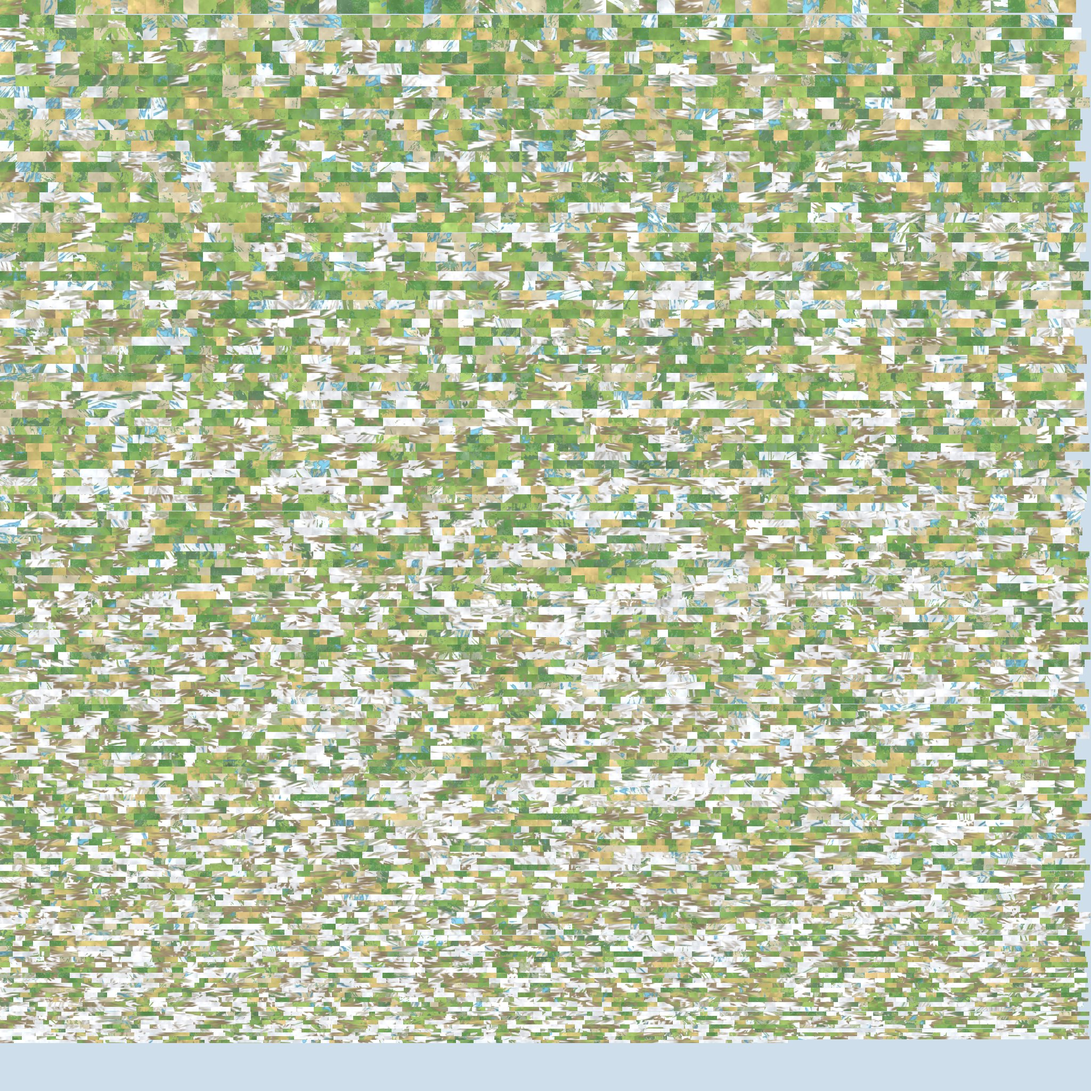
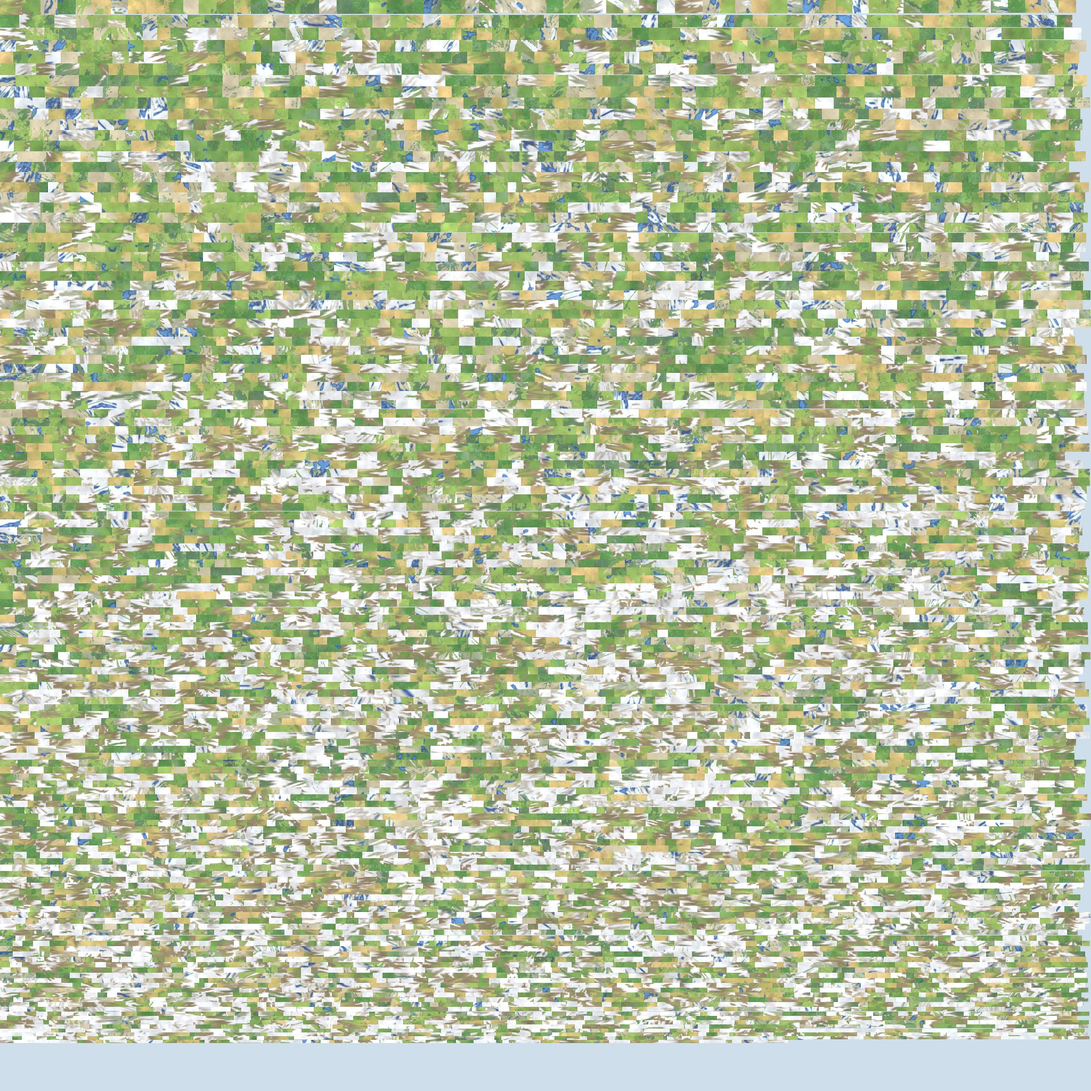
川を光る水色の芯と濃い青の縁・むらにする/湖を青寄りに
Claude-Session: https://claude.ai/code/session_01NNF75WtqSrNc5QxPaYtfZJ

diff --git a/docs/apps/fantasy-war/world3d.html b/docs/apps/fantasy-war/world3d.html
@@ -22,6 +22,14 @@ const D0=()=>(innerWidth/innerHeight<1?2600:1500); let az=0,el=0.9,dist=D0(),mes
 const VS=1.1;
 function resize(){R.setSize(innerWidth,innerHeight,false);cam.aspect=innerWidth/innerHeight;cam.updateProjectionMatrix();} addEventListener('resize',resize); resize();
 function place(){cam.position.set(Math.sin(az)*Math.cos(el)*dist,Math.sin(el)*dist,Math.cos(az)*Math.cos(el)*dist);cam.lookAt(0,0,0);}
+// 川の色: 光る水色の芯+縁と所々に濃い青を混ぜる(ユーザー指示 11-22 22:11。参考=光る川の絵)。幅方向=芯が明るく縁が濃い、長さ方向=濃淡のむら
+function rivTex(){const W=32,Hh=256,c=document.createElement('canvas'); c.width=W; c.height=Hh; const g=c.getContext('2d'),im=g.createImageData(W,Hh);
+ const ph=[0.31,0.77,1.9]; const lerp=(a,b,t)=>a+(b-a)*t;
+ for(let y=0;y<Hh;y++){const t=y/Hh*Math.PI*2; let d=0.5+0.28*Math.sin(t*2+ph[0]*6)+0.18*Math.sin(t*5+ph[1]*6)+0.1*Math.sin(t*11+ph[2]*6); d=Math.min(1,Math.max(0,d));
+  for(let x=0;x<W;x++){const e=Math.abs((x+0.5)/W-0.5)*2, w=Math.pow(e,1.3);   // 縁ほど濃い
+   const core=[lerp(150,45,d*0.9),lerp(228,95,d*0.9),lerp(255,205,d*0.8)], edge=[28,52,150];
+   const i=(y*W+x)*4; im.data[i]=lerp(core[0],edge[0],w); im.data[i+1]=lerp(core[1],edge[1],w); im.data[i+2]=lerp(core[2],edge[2],w); im.data[i+3]=255;}}
+ g.putImageData(im,0,0); const t=new THREE.CanvasTexture(c); t.wrapT=THREE.RepeatWrapping; t.wrapS=THREE.ClampToEdgeWrapping; t.colorSpace=THREE.SRGBColorSpace; return t;}
 async function load(id){
  st.textContent='読み込み中…'; const t0=performance.now();
  const d=await (await fetch(`w3d/world${id}.json`)).json();
@@ -41,8 +49,9 @@ async function load(id){
   const bin=atob(r.v), u8=new Uint8Array(bin.length); for(let i=0;i<bin.length;i++)u8[i]=bin.charCodeAt(i); const q=new Int16Array(u8.buffer), k=1/r.q;
   const rp=new Float32Array(q.length), ri=[]; for(let i=0;i<q.length;i+=3){rp[i]=q[i]*k-d.w/2; rp[i+1]=q[i+2]*k*VS; rp[i+2]=q[i+1]*k-d.h/2;}
   let o=0; for(const m of r.c){for(let j=0;j<m-1;j++){const a=o+2*j; ri.push(a,a+1,a+2, a+1,a+3,a+2);} o+=2*m;}
-  const rg=new THREE.BufferGeometry(); rg.setAttribute('position',new THREE.BufferAttribute(rp,3)); rg.setIndex(ri);
-  riv=new THREE.Mesh(rg,new THREE.MeshBasicMaterial({color:0x6ecdf5,side:THREE.DoubleSide,polygonOffset:true,polygonOffsetFactor:-2,polygonOffsetUnits:-2})); S.add(riv);}}catch(e){console.log('river',e);}
+  const ru=new Float32Array(q.length/3*2); o=0; for(const m of r.c){let acc=0; for(let j=0;j<m;j++){ if(j>0){const a=(o+2*j)*3,b=(o+2*j-2)*3; acc+=Math.hypot(rp[a]-rp[b],rp[a+1]-rp[b+1],rp[a+2]-rp[b+2]);} ru[(o+2*j)*2]=0; ru[(o+2*j+1)*2]=1; ru[(o+2*j)*2+1]=ru[(o+2*j+1)*2+1]=acc/60;} o+=2*m;}
+  const rg=new THREE.BufferGeometry(); rg.setAttribute('position',new THREE.BufferAttribute(rp,3)); rg.setAttribute('uv',new THREE.BufferAttribute(ru,2)); rg.setIndex(ri);
+  riv=new THREE.Mesh(rg,new THREE.MeshBasicMaterial({map:rivTex(),side:THREE.DoubleSide,polygonOffset:true,polygonOffsetFactor:-2,polygonOffsetUnits:-2})); S.add(riv);}}catch(e){console.log('river',e);}
  if(sea)S.remove(sea); sea=new THREE.Mesh(new THREE.PlaneGeometry(d.w*1.2,d.h*1.2),new THREE.MeshLambertMaterial({color:0xb4c4c0})); sea.rotation.x=-Math.PI/2; sea.position.y=-1; S.add(sea);
  info=`面 ${d.f.length/3} / 読み込み ${(performance.now()-t0).toFixed(0)}ms`;
  st.textContent=info+'\nドラッグで回す。';

diff --git a/docs/apps/fantasy-war/mapstyle/tools/water_layer.py b/docs/apps/fantasy-war/mapstyle/tools/water_layer.py
@@ -69,8 +69,8 @@ def make(g, lake, land0, H, out, shift, seed=1, rivers_in_texture=False, min_ord
     else: ink = fill = np.zeros((H0, W0), np.float32)      # 川は絵にせず、3Dで地形に沿う帯にする(絵だと急な面で伸びる 11-22 21:45)
     ink *= (1 - lki); fill *= (1 - lki)
     rgb = np.zeros((H0, W0, 3), np.float32); a = np.zeros((H0, W0), np.float32)
-    rgb, a = over(rgb, a, (126, 204, 238), 0.92 * lki)
-    rgb, a = over(rgb, a, (72, 128, 170), 0.6 * ring * (lkz > 0.05))
+    rgb, a = over(rgb, a, (92, 150, 214), 0.94 * lki)
+    rgb, a = over(rgb, a, (34, 58, 140), 0.7 * ring * (lkz > 0.05))
     rgb, a = over(rgb, a, (70, 130, 175), 0.5 * ink)                     # 墨色のふち
     rgb, a = over(rgb, a, (110, 205, 245), 0.97 * fill)                  # 青の川筋
     O = np.dstack([rgb[..., ::-1], a * 255]).astype(np.uint8)       # BGRA

diff --git a/docs/apps/sekai-hex/design/STATE.md b/docs/apps/sekai-hex/design/STATE.md
@@ -205,6 +205,7 @@
 - 【指示 11-22 21:50 ユーザー】『絵を貼る場合、地形の伸び率をそのままにしてUV展開してから貼らないから、うまくできないんだよ』。→ 認める(21:45の私の対策は『模様を弱める』だけで、貼り方そのものを直していなかった)。実施: 面ごとのUV展開にした(道具 mapstyle/tools/atlas_unwrap.py、lowpoly.py の FM_LP_ATLAS)。各三角形を3Dの実寸(横・縦+高さ×1.1)のまま平らに開き、1枚の絵(アトラス 2048×2048)に並べる=各面の絵の領域は3Dの面積に比例し、伸び率が1になる。絵はその展開の上で作る: 色(群系・高さ・雪・湖)は地図の位置から引き、細かい模様は3Dの位置で作る(斜面で伸びない)。ビューア(world3d.html)は面ごとのUV(tuv)を読む。実測: 球体seed31の面10,206・面の3D面積の合計約136万、アトラス密度は3D1単位あたり0.8画素(seed32は0.9)、作成4秒、絵約1.2MB・面データ約1.4MB。目視(近づいた3D・PC画面のみ): 山の斜面の縦筋が消え、絵が面に均一に貼られた。エラー無し。限界: 密度0.8は平地では旧(平面貼り1.0)よりやや粗い/面ごとの島(各三角形が別領域)なので面の境で色が少し変わる所がある(色は地図の位置から引くため連続だが、模様は面の端で別補間)/川は絵でなく帯(21:45)のまま/森は球体世界に未搭載=森を足す時は、木の置き方も展開した絵の上(3Dの寸法)で行う必要がある/PWG5の5世界は未反映(旧方式のまま)/iPhone未測定(絵2048角×2枚)。次の一手: 球体の世界に森を、展開した絵の上で足す(群系から)。
 - 【指示 11-22 21:56 ユーザー】『完全でなくてもいい。擬似で。少しくらい伸びないと作れない。それより山の伸び率が大き過ぎる。全体の大きさと山の伸び率を比率で、適当な値を計算して山を伸ばしてほしい』。→ 計算(実測): 世界は周長8192km=横1400画素で1画素=約5.85km。球体PWGの最高峰は約8.2〜8.5km(海抜上位6%の境は約2km)=実寸の縮尺だと最高峰は約1.4画素で、ほぼ平ら。以前の3D表示は、標高の上位6%を境に二段で高さを割り当てていて、実寸の縮尺比で約60〜115倍に誇張していた(最高峰は約97画素=世界幅の7%、針のような山)。実寸の傾き(地図の画素の傾き)は中央0.008・90%点0.028・99%点0.049。誇張の倍率kを変えて面の伸び率を測った: k=10→90%点1.04倍/k=20→1.15倍/k=30→1.31倍(最高峰=世界幅の3%)・99%点1.7〜1.8倍。決定: 誇張30倍(山の高さ=実標高÷5.85km×30。陸の基準の高さは海面すれすれ=海岸の崖をなくした)。『少し伸びる』は許容として、面の9割が1.4倍以内に入る値。実施(pwg_sphere_convert.py。倍率は環境変数 FM_LP_EXAG、縮尺 FM_LP_KMPX): 3D表示の高さだけ置き換え(色・面の分け方は元のまま)、川の帯とアトラスも同じ高さで作り直し。結果(実測・球体2世界の面): 伸び率 中央2.6→1.07倍・90%点6.3→1.4倍・99%点11→2.6〜2.9倍。最高点の高さは約97→約34画素(基準の高さ込みで56〜61)。目視(PC画面): 針のような山が無くなり、山脈がなだらかな起伏になった。川の帯・絵が斜面で伸びない。エラー無し。限界: 倍率30は私が測って選んだ値でユーザー指定でない(もっと高くしたければ倍率を上げる。45で90%点約1.6倍)/高さの基準を変えたため、海面すれすれの低地は平らに見える/川の帯は急な所で短く途切れる/PWG5の5世界は元の標高が無く未反映(旧の高さのまま)/iPhone未測定。次の一手: 山の高さの好みを見て、倍率を決める(上げる/このまま)。
 - 【指摘・指示 11-22 22:01 ユーザー】『自然な地図の山なんて望んでいない。多少の強調は必要。強調の基準はハブに書いたよね。ハブから外れている。また、川の数が多すぎる。川も山も特徴的なのだけを選んで強調して書くんだよ』。→ 認める(私の落ち度): 21:56の『実寸の縮尺×誇張30倍』は、ハブの確定済みの基準(カード6A『地形には特出する地形があり、絵はそれをいろいろな形で示す=デフォルメ=特徴を選んで強調』・カード6E『ゆるい3D+強調は高い山が集まる所だけ』・平均してならすのは失敗)を確かめずに、自分で自然さの基準を作ったもので、基準違反。21:56の誇張30倍は取り下げ(置き換え済み)。実施: ①山=カード6E(mapstyle40)の基準に戻した: 全体はゆるい3D(強さ0.535)・高い山が集まる所だけ強調(0.775、集まりのしきい値0.17)・低地の面は粗く山は細かく・山の縁は中間の細かさ(FM_LP_GENTLE=1 BASE=0.535 EMPH=0.775 D0=0.17 SP=1.3 RING=1)。pwg_sphere_convert.py の既定にした。②川=特徴的なものだけ選ぶ: 流域の最大の順位が6以上の大河の系統だけ、その中の順位5以上を描く(旧: 順位4以上の全部)。幅を太め(旧の1.4倍)に強調。結果(実測): 川の連なり 約1,070→124(seed31)・1,090→134(seed32)、頂点 2.0万→0.4万。山の面は12,120・10,155、面の伸び率は中央1.26〜1.30倍・90%点約3倍・99%点約5倍(強調域の山は伸びる=ユーザー『少し伸びてよい』の範囲と解釈)、最高点は約67画素(旧: 97画素の針→21:56の56画素の平坦)。目視(PC画面・全体と近づき): 山脈が強調された尖った峰として見え、低地はゆるく、川は少数の大河が山から低地・海へ流れる。限界: 川は大河中心で、小さな島(西の島)や湖の周りでは川がほぼ無い/大河の選び方(最大順位6以上・描く順位5以上)は私の初期値(RIV_BASIN・RIV_ORD で変える。順位4で約3倍に増える)/山の強調の強さはmapstyle40の値のまま(ユーザー評価済みの値)で、3D表示の高さ倍率(1.1)は未調整/PWG5の5世界は未反映/iPhone未測定。次の一手: 球体の世界に森を足す(強調して選んだ場所に)。
+- 【指示 11-22 22:11 ユーザー(参考画像: 光る川のファンタジー地図)】『水色すぎる。こんな感じで光らせても濃い色も混じるんだよ。濃い色と水色を混ぜて』。→ 実施: 川の色を『光る水色の芯+縁と所々に濃い青』にした。川の帯に絵(模様)を貼る形にし(world3d.html の rivTex)、幅方向=芯が明るい水色(150,228,255)で縁ほど濃い青(28,52,150)、長さ方向=濃淡のむら(芯が水色〜青(45,95,205)の間で変わる、周期は川の長さ約60ごと)。湖も、水色一色をやめ青寄り(92,150,214)・縁を濃い青(34,58,140)に。結果(目視・PC画面の近づいた3D): 川は明るい芯と濃い縁で光るように見え、所々青が濃くなる。限界: 色の配合・濃淡の周期は私の初期値/『光る』(ぼんやり発光・川の周りの滲み)は未実装で、色の濃淡のみ/湖は川より濃く見える/参考画像の紫の混じり・稲妻状の細い光は未対応/iPhone未測定。次の一手: 色の濃淡を見て調整点を一言、または球体の世界に森を足す。
 
 ## カード15 制作プロトコル(超基礎概念)と、このプロジェクトの作業フロー【確定(ユーザー指示 11-21)+案】
 - 適用範囲: このプロジェクト(ファンタジー世界戦争=世界ハニカム、docs/apps/fantasy-war と sekai-hex)だけ。他のアプリには適用しない。

diff --git a/docs/apps/sekai-hex/design/cards/c06g.md b/docs/apps/sekai-hex/design/cards/c06g.md
@@ -100,3 +100,4 @@
 - 【指示 11-22 21:50 ユーザー】『絵を貼る場合、地形の伸び率をそのままにしてUV展開してから貼らないから、うまくできないんだよ』。→ 認める(21:45の私の対策は『模様を弱める』だけで、貼り方そのものを直していなかった)。実施: 面ごとのUV展開にした(道具 mapstyle/tools/atlas_unwrap.py、lowpoly.py の FM_LP_ATLAS)。各三角形を3Dの実寸(横・縦+高さ×1.1)のまま平らに開き、1枚の絵(アトラス 2048×2048)に並べる=各面の絵の領域は3Dの面積に比例し、伸び率が1になる。絵はその展開の上で作る: 色(群系・高さ・雪・湖)は地図の位置から引き、細かい模様は3Dの位置で作る(斜面で伸びない)。ビューア(world3d.html)は面ごとのUV(tuv)を読む。実測: 球体seed31の面10,206・面の3D面積の合計約136万、アトラス密度は3D1単位あたり0.8画素(seed32は0.9)、作成4秒、絵約1.2MB・面データ約1.4MB。目視(近づいた3D・PC画面のみ): 山の斜面の縦筋が消え、絵が面に均一に貼られた。エラー無し。限界: 密度0.8は平地では旧(平面貼り1.0)よりやや粗い/面ごとの島(各三角形が別領域)なので面の境で色が少し変わる所がある(色は地図の位置から引くため連続だが、模様は面の端で別補間)/川は絵でなく帯(21:45)のまま/森は球体世界に未搭載=森を足す時は、木の置き方も展開した絵の上(3Dの寸法)で行う必要がある/PWG5の5世界は未反映(旧方式のまま)/iPhone未測定(絵2048角×2枚)。次の一手: 球体の世界に森を、展開した絵の上で足す(群系から)。
 - 【指示 11-22 21:56 ユーザー】『完全でなくてもいい。擬似で。少しくらい伸びないと作れない。それより山の伸び率が大き過ぎる。全体の大きさと山の伸び率を比率で、適当な値を計算して山を伸ばしてほしい』。→ 計算(実測): 世界は周長8192km=横1400画素で1画素=約5.85km。球体PWGの最高峰は約8.2〜8.5km(海抜上位6%の境は約2km)=実寸の縮尺だと最高峰は約1.4画素で、ほぼ平ら。以前の3D表示は、標高の上位6%を境に二段で高さを割り当てていて、実寸の縮尺比で約60〜115倍に誇張していた(最高峰は約97画素=世界幅の7%、針のような山)。実寸の傾き(地図の画素の傾き)は中央0.008・90%点0.028・99%点0.049。誇張の倍率kを変えて面の伸び率を測った: k=10→90%点1.04倍/k=20→1.15倍/k=30→1.31倍(最高峰=世界幅の3%)・99%点1.7〜1.8倍。決定: 誇張30倍(山の高さ=実標高÷5.85km×30。陸の基準の高さは海面すれすれ=海岸の崖をなくした)。『少し伸びる』は許容として、面の9割が1.4倍以内に入る値。実施(pwg_sphere_convert.py。倍率は環境変数 FM_LP_EXAG、縮尺 FM_LP_KMPX): 3D表示の高さだけ置き換え(色・面の分け方は元のまま)、川の帯とアトラスも同じ高さで作り直し。結果(実測・球体2世界の面): 伸び率 中央2.6→1.07倍・90%点6.3→1.4倍・99%点11→2.6〜2.9倍。最高点の高さは約97→約34画素(基準の高さ込みで56〜61)。目視(PC画面): 針のような山が無くなり、山脈がなだらかな起伏になった。川の帯・絵が斜面で伸びない。エラー無し。限界: 倍率30は私が測って選んだ値でユーザー指定でない(もっと高くしたければ倍率を上げる。45で90%点約1.6倍)/高さの基準を変えたため、海面すれすれの低地は平らに見える/川の帯は急な所で短く途切れる/PWG5の5世界は元の標高が無く未反映(旧の高さのまま)/iPhone未測定。次の一手: 山の高さの好みを見て、倍率を決める(上げる/このまま)。
 - 【指摘・指示 11-22 22:01 ユーザー】『自然な地図の山なんて望んでいない。多少の強調は必要。強調の基準はハブに書いたよね。ハブから外れている。また、川の数が多すぎる。川も山も特徴的なのだけを選んで強調して書くんだよ』。→ 認める(私の落ち度): 21:56の『実寸の縮尺×誇張30倍』は、ハブの確定済みの基準(カード6A『地形には特出する地形があり、絵はそれをいろいろな形で示す=デフォルメ=特徴を選んで強調』・カード6E『ゆるい3D+強調は高い山が集まる所だけ』・平均してならすのは失敗)を確かめずに、自分で自然さの基準を作ったもので、基準違反。21:56の誇張30倍は取り下げ(置き換え済み)。実施: ①山=カード6E(mapstyle40)の基準に戻した: 全体はゆるい3D(強さ0.535)・高い山が集まる所だけ強調(0.775、集まりのしきい値0.17)・低地の面は粗く山は細かく・山の縁は中間の細かさ(FM_LP_GENTLE=1 BASE=0.535 EMPH=0.775 D0=0.17 SP=1.3 RING=1)。pwg_sphere_convert.py の既定にした。②川=特徴的なものだけ選ぶ: 流域の最大の順位が6以上の大河の系統だけ、その中の順位5以上を描く(旧: 順位4以上の全部)。幅を太め(旧の1.4倍)に強調。結果(実測): 川の連なり 約1,070→124(seed31)・1,090→134(seed32)、頂点 2.0万→0.4万。山の面は12,120・10,155、面の伸び率は中央1.26〜1.30倍・90%点約3倍・99%点約5倍(強調域の山は伸びる=ユーザー『少し伸びてよい』の範囲と解釈)、最高点は約67画素(旧: 97画素の針→21:56の56画素の平坦)。目視(PC画面・全体と近づき): 山脈が強調された尖った峰として見え、低地はゆるく、川は少数の大河が山から低地・海へ流れる。限界: 川は大河中心で、小さな島(西の島)や湖の周りでは川がほぼ無い/大河の選び方(最大順位6以上・描く順位5以上)は私の初期値(RIV_BASIN・RIV_ORD で変える。順位4で約3倍に増える)/山の強調の強さはmapstyle40の値のまま(ユーザー評価済みの値)で、3D表示の高さ倍率(1.1)は未調整/PWG5の5世界は未反映/iPhone未測定。次の一手: 球体の世界に森を足す(強調して選んだ場所に)。
+- 【指示 11-22 22:11 ユーザー(参考画像: 光る川のファンタジー地図)】『水色すぎる。こんな感じで光らせても濃い色も混じるんだよ。濃い色と水色を混ぜて』。→ 実施: 川の色を『光る水色の芯+縁と所々に濃い青』にした。川の帯に絵(模様)を貼る形にし(world3d.html の rivTex)、幅方向=芯が明るい水色(150,228,255)で縁ほど濃い青(28,52,150)、長さ方向=濃淡のむら(芯が水色〜青(45,95,205)の間で変わる、周期は川の長さ約60ごと)。湖も、水色一色をやめ青寄り(92,150,214)・縁を濃い青(34,58,140)に。結果(目視・PC画面の近づいた3D): 川は明るい芯と濃い縁で光るように見え、所々青が濃くなる。限界: 色の配合・濃淡の周期は私の初期値/『光る』(ぼんやり発光・川の周りの滲み)は未実装で、色の濃淡のみ/湖は川より濃く見える/参考画像の紫の混じり・稲妻状の細い光は未対応/iPhone未測定。次の一手: 色の濃淡を見て調整点を一言、または球体の世界に森を足す。
